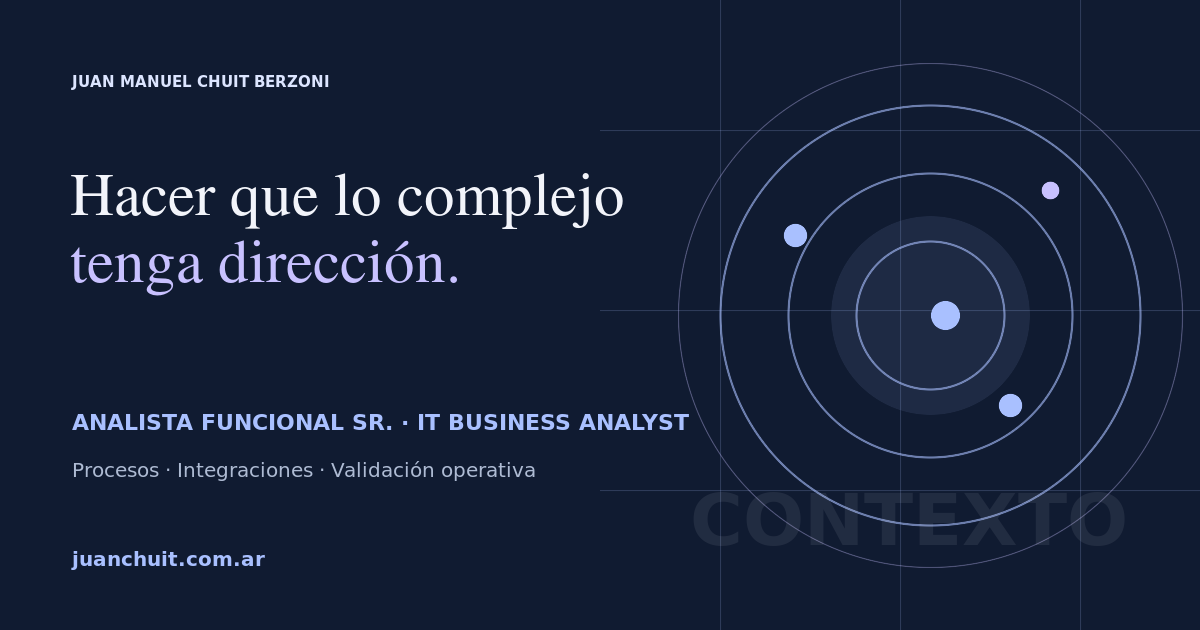
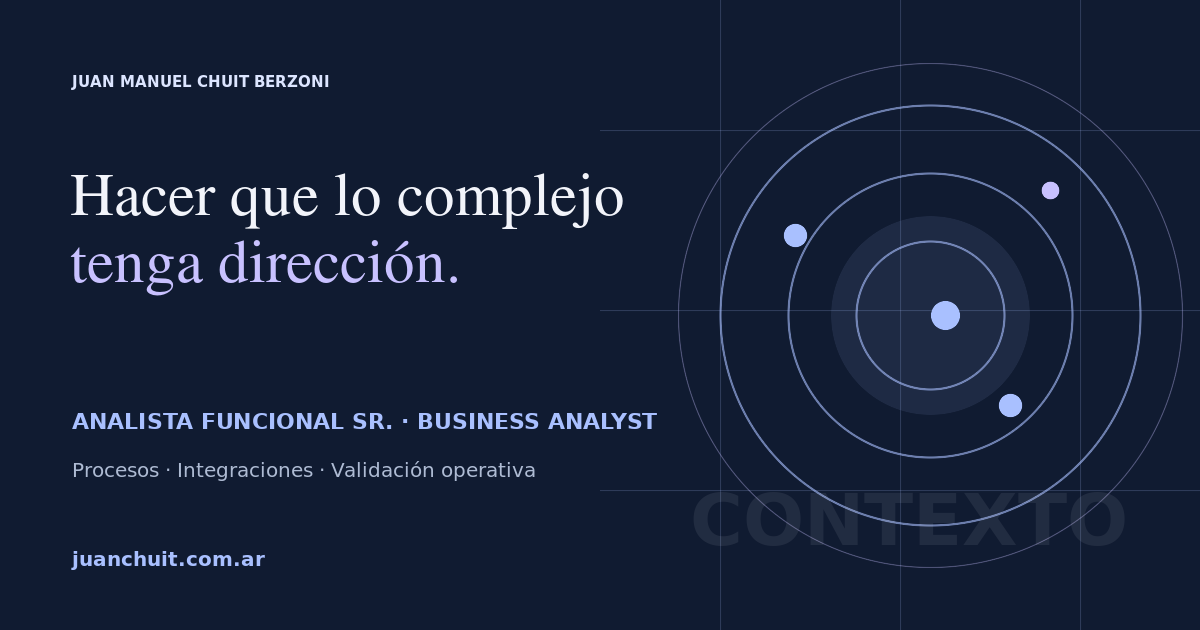
Agrega experiencia en Qservices y normaliza Business Analyst

Changed region(s): [[0.3392, 0.6333, 0.5858, 0.6937], [0.185, 0.6333, 0.2775, 0.6937], [0.0617, 0.6333, 0.1542, 0.6937]]

diff --git a/index.html b/index.html
@@ -4,10 +4,10 @@
   <meta charset="utf-8" />
   <meta name="viewport" content="width=device-width, initial-scale=1" />
   <link rel="canonical" href="https://juanchuit.com.ar/" />
-  <title>Juan Manuel Chuit Berzoni | Analista Funcional Sr. | IT Business Analyst</title>
-  <meta name="description" content="Portfolio profesional de Juan Manuel Chuit Berzoni: Analista Funcional Sr. e IT Business Analyst con experiencia en procesos TI, mejora continua, banca, integraciones, SQL y ciberseguridad." />
+  <title>Juan Manuel Chuit Berzoni | Analista Funcional Sr. | Business Analyst</title>
+  <meta name="description" content="Portfolio profesional de Juan Manuel Chuit Berzoni: Analista Funcional Sr. y Business Analyst con experiencia en procesos TI, mejora continua, banca, integraciones, SQL y ciberseguridad." />
   <meta name="theme-color" content="#0b1020" />
-  <meta property="og:title" content="Juan Manuel Chuit Berzoni | Analista Funcional Sr. | IT Business Analyst" />
+  <meta property="og:title" content="Juan Manuel Chuit Berzoni | Analista Funcional Sr. | Business Analyst" />
   <meta property="og:site_name" content="Juan Manuel Chuit Berzoni — Portfolio" />
   <meta property="og:description" content="Análisis funcional, procesos TI, integraciones y mejora continua en banca, fintech y entornos corporativos." />
   <meta property="og:type" content="website" />
@@ -15,9 +15,9 @@
   <meta property="og:image" content="https://juanchuit.com.ar/assets/images/social-preview.png" />
   <meta property="og:image:width" content="1200" />
   <meta property="og:image:height" content="630" />
-  <meta property="og:image:alt" content="Portfolio profesional de Juan Manuel Chuit Berzoni, Analista Funcional Sr. e IT Business Analyst" />
+  <meta property="og:image:alt" content="Portfolio profesional de Juan Manuel Chuit Berzoni, Analista Funcional Sr. y Business Analyst" />
   <meta name="twitter:card" content="summary_large_image" />
-  <meta name="twitter:title" content="Juan Manuel Chuit Berzoni | Analista Funcional Sr. | IT Business Analyst" />
+  <meta name="twitter:title" content="Juan Manuel Chuit Berzoni | Analista Funcional Sr. | Business Analyst" />
   <meta name="twitter:description" content="Análisis funcional, procesos TI, integraciones y mejora continua en banca, fintech y entornos corporativos." />
   <meta name="twitter:image" content="https://juanchuit.com.ar/assets/images/social-preview.png" />
   <link rel="icon" href="favicon.svg" type="image/svg+xml" />
@@ -30,7 +30,7 @@
     "@context": "https://schema.org",
     "@type": "Person",
     "name": "Juan Manuel Chuit Berzoni",
-    "jobTitle": "Analista Funcional Sr. | IT Business Analyst | Procesos TI y Mejora Continua",
+    "jobTitle": "Analista Funcional Sr. | Business Analyst | Procesos TI y Mejora Continua",
     "url": "https://juanchuit.com.ar/",
     "address": {"@type": "PostalAddress", "addressLocality": "Buenos Aires", "addressCountry": "AR"},
     "sameAs": ["https://www.linkedin.com/in/juan-manuel-chuit-berzoni/", "https://github.com/jchuit"],
@@ -74,7 +74,7 @@
     <section class="hero hero-nucleus section" data-state="contexto">
       <div class="container hero-nucleus-grid">
         <div class="hero-copy reveal">
-          <p class="eyebrow">Analista Funcional Sr. · IT Business Analyst</p>
+          <p class="eyebrow">Analista Funcional Sr. · Business Analyst</p>
           <h1><span>Hacer</span><span>que</span><span>lo</span><span>complejo</span><span>tenga</span><em>dirección.</em></h1>
           <p class="hero-lead">
             Conecto necesidades de negocio con procesos, datos e integraciones implementables hasta su validación operativa.
@@ -118,7 +118,7 @@
             Traduzco necesidades de negocio en definiciones funcionales claras, procesos trazables y validaciones que permiten a los equipos implementar soluciones con menor ambigüedad y riesgo.
           </p>
           <p>
-            Combino análisis funcional con lectura técnica de datos, APIs, observabilidad y ciberseguridad para anticipar dependencias, alinear actores y acompañar decisiones de punta a punta. Actualmente participo como referente funcional en iniciativas del equipo, coordinando bloqueos y seguimiento operativo; además, tengo experiencia coordinando war rooms ante incidentes críticos, conectando evidencia técnica con impacto operativo.
+            Combino análisis funcional con lectura técnica de datos, APIs, observabilidad y ciberseguridad para anticipar dependencias, alinear actores y acompañar decisiones de punta a punta. Actualmente trabajo en iniciativas de medios de pago y productos transaccionales, articulando entre Product Owners, negocio y desarrollo desde la definición de requerimientos hasta la puesta en producción; además, tengo experiencia coordinando war rooms ante incidentes críticos, conectando evidencia técnica con impacto operativo.
           </p>
           <ol class="capability-list">
             <li>
@@ -160,11 +160,28 @@
         <div class="timeline">
           <article class="timeline-item reveal">
             <div class="timeline-meta">
-              <span class="date">2025 — Actualidad</span>
+              <span class="date">oct. 2026 — Actualidad</span>
+              <span class="company">Qservices · Cliente: Payway</span>
+            </div>
+            <div class="timeline-content">
+              <h3>Business Analyst Sr</h3>
+              <p>Relevamiento, análisis y definición de requerimientos de negocio para iniciativas de medios de pago y productos transaccionales, acompañando el ciclo end-to-end desde la necesidad inicial hasta la implementación y puesta en producción.</p>
+              <ul>
+                <li>Articulación entre Product Owners, áreas de negocio y equipos de desarrollo para acordar alcance, prioridades y objetivos; colaboración en la priorización y el refinamiento del backlog y seguimiento de iniciativas con equipos multidisciplinarios bajo metodologías ágiles.</li>
+                <li>Definición y refinamiento de historias de usuario, casos de uso y criterios de aceptación, manteniendo trazabilidad entre necesidades de negocio, backlog y entregables.</li>
+                <li>Participación en la modernización de plataformas legacy hacia entornos cloud, analizando impactos, dependencias, riesgos y requerimientos; análisis funcional de sistemas transaccionales, integraciones, APIs y canales digitales/mobile del ecosistema fintech y medios de pago.</li>
+                <li>Acompañamiento de validaciones, implementación y puesta en producción para asegurar que las soluciones respondan a los objetivos y necesidades definidos por el negocio.</li>
+              </ul>
+            </div>
+          </article>
+
+          <article class="timeline-item reveal">
+            <div class="timeline-meta">
+              <span class="date">nov. 2025 — 23/10/2026</span>
               <span class="company">Artax Advisors · Cliente: Banco Piano</span>
             </div>
             <div class="timeline-content">
-              <h3>Analista Funcional Sr. · IT Business Analyst</h3>
+              <h3>Analista Funcional Sr. · Business Analyst</h3>
               <p>Relevamiento y documentación de requerimientos funcionales y técnicos para sistemas core y satélite bancarios, actuando como nexo entre negocio, desarrollo y operaciones.</p>
               <ul>
                 <li>Participación como referente funcional en una migración de tarjetas físicas a tarjetas digitales, con modelado BPMN, casos de uso, historias de usuario y trazabilidad end-to-end.</li>
@@ -197,7 +214,7 @@
               <span class="company">Applicant IT · Cliente: YPF</span>
             </div>
             <div class="timeline-content">
-              <h3>Analista de Procesos de TI · IT Business Analyst</h3>
+              <h3>Analista de Procesos de TI · Business Analyst</h3>
               <p>Modelado y mejora de procesos IT, administración de información de configuración y construcción de indicadores para áreas técnicas y de negocio.</p>
               <ul>
                 <li>Administración de CMDB en ServiceNow con más de 300.000 activos informáticos, para fortalecer la trazabilidad y calidad de la información técnica.</li>

diff --git a/README.md b/README.md
@@ -1,4 +1,4 @@
-# Juan Manuel Chuit Berzoni — Analista Funcional Sr. | IT Business Analyst | Procesos TI y Mejora Continua
+# Juan Manuel Chuit Berzoni — Analista Funcional Sr. | Business Analyst | Procesos TI y Mejora Continua
 
 Analista Funcional Sr. con más de 5 años de experiencia en TI, orientado a procesos TI, mejora continua, integraciones y sistemas críticos. Conecto necesidades de negocio con equipos técnicos para llevar requerimientos a soluciones implementables y trazables.
 
@@ -23,9 +23,10 @@ Metodologías y marcos: `Scrum` `Kanban` `Waterfall` `ITIL` `BCRA` `PCI-DSS` `IS
 
 ## Experiencia destacada
 
-- **Artax Advisors · Cliente: Banco Piano** — Analista Funcional Sr. · IT Business Analyst (nov. 2025 - actualidad). Relevamiento y documentación para sistemas core y satélite bancarios; participación como referente funcional en una migración de tarjetas físicas a tarjetas digitales; gestión de backlog en Jira y validaciones funcionales sobre sistemas legacy.
+- **Qservices · Cliente: Payway** — Business Analyst Sr (oct. 2026 - actualidad). Relevamiento y definición de requerimientos para medios de pago y productos transaccionales; articulación entre Product Owners, negocio y desarrollo; historias de usuario, criterios de aceptación y trazabilidad del backlog; análisis de integraciones y modernización de plataformas legacy hacia cloud; acompañamiento de validaciones y puesta en producción.
+- **Artax Advisors · Cliente: Banco Piano** — Analista Funcional Sr. · Business Analyst (nov. 2025 - 23/10/2026). Relevamiento y documentación para sistemas core y satélite bancarios; participación como referente funcional en una migración de tarjetas físicas a tarjetas digitales; gestión de backlog en Jira y validaciones funcionales sobre sistemas legacy.
 - **CFOTech IT Global Services · Banco Nación Argentina** — Analista Funcional - Ciberseguridad (ene. 2025 - mayo 2025). Seguimiento de hallazgos y coordinación de planes de remediación bajo lineamientos BCRA, ISO 27001 e ITIL.
-- **Applicant - IT Talent Management · Cliente: YPF** — Analista de Procesos de TI · IT Business Analyst (oct. 2023 - ene. 2025). Administración de CMDB en ServiceNow, modelado BPMN AS IS/TO BE y dashboards de KPIs en Power BI.
+- **Applicant - IT Talent Management · Cliente: YPF** — Analista de Procesos de TI · Business Analyst (oct. 2023 - ene. 2025). Administración de CMDB en ServiceNow, modelado BPMN AS IS/TO BE y dashboards de KPIs en Power BI.
 - **Global Processing** — Functional Support Analyst (sept. 2022 - oct. 2023). Coordinación de war rooms, análisis de fallas críticas en AWS CloudWatch y construcción de conocimiento interno.
 
 ## Proyectos académicos e históricos
